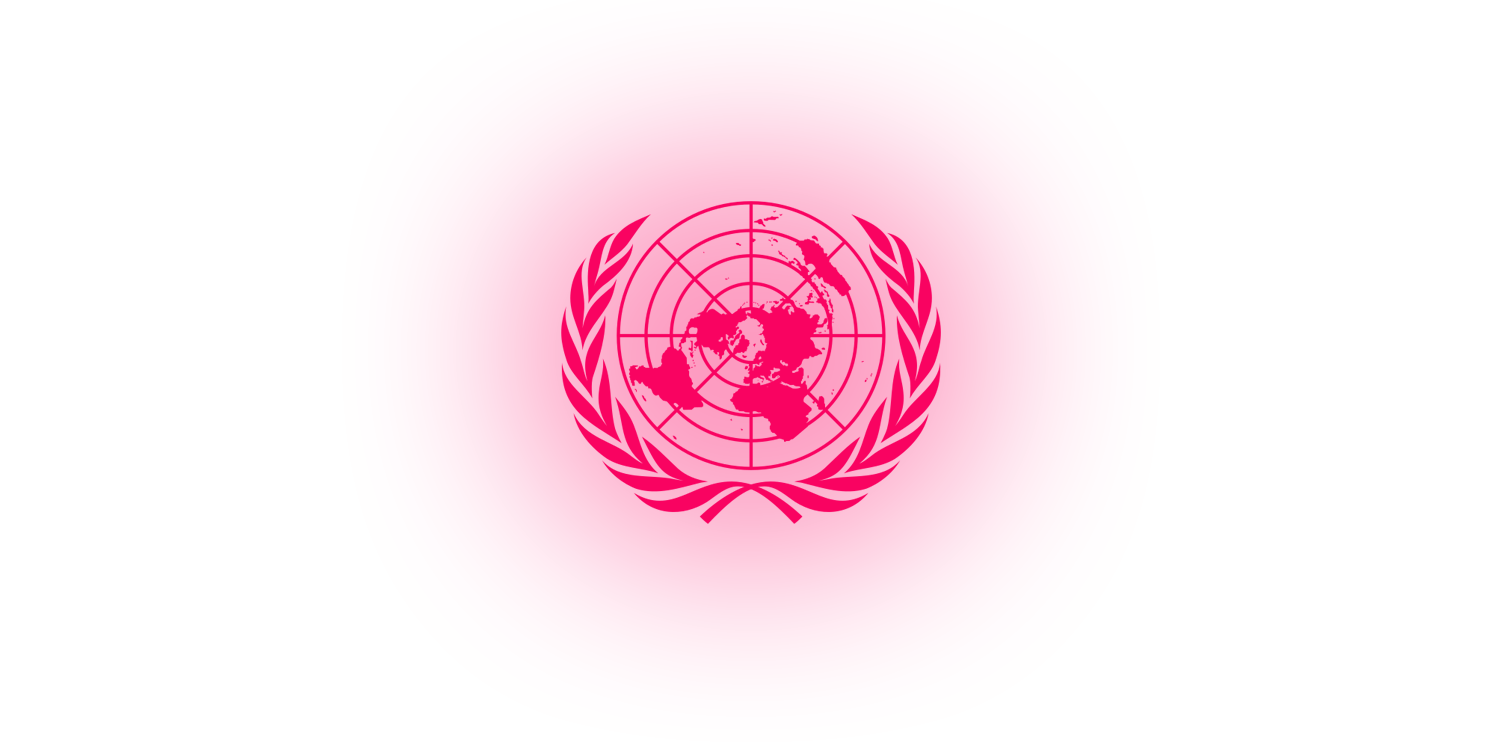
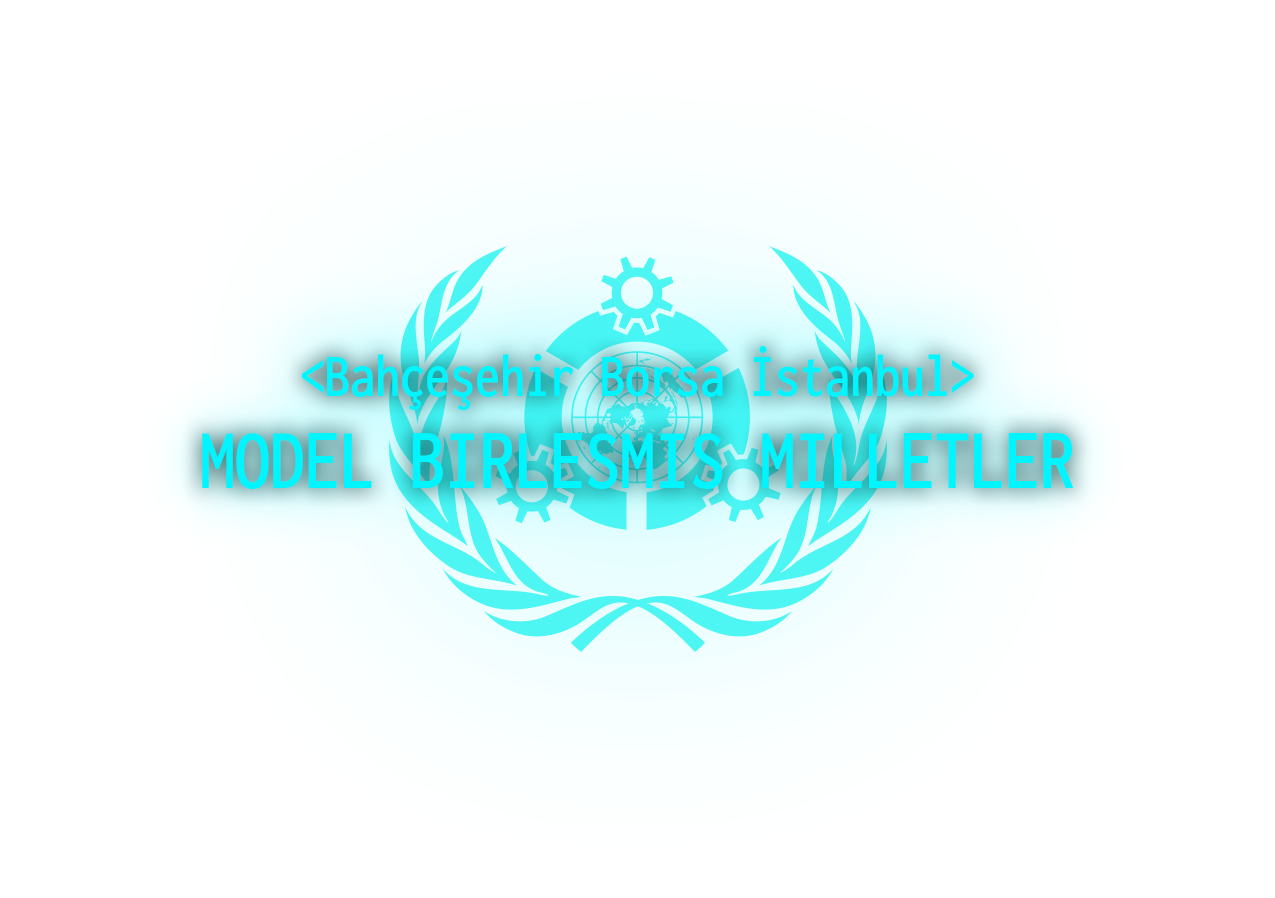
Add files via upload

Changed region(s): [[0.1224, 0.1237, 0.8565, 0.8347]]

diff --git a/pages/aboutus.html b/pages/aboutus.html
@@ -49,11 +49,11 @@
     
     <!-- Başlık Bölümü -->
     <header>
-        <div id="bistmbm_bg">
-            <h1 id="bistmbm_bg_text1">&lt;Bahçeşehir Borsa İstanbul&gt;</h1>
-            <img src="../img/unitednationsbg.png">
-            <h1 id="bistmbm_bg_text2">MODEL BIRLESMIS MILLETLER</h1>
-        </div>
+        <header>
+            <div id="bistmbm_bg">
+                <img src="../img/unitednationsbg.png">
+            </div>
+        </header>
     </header>
     
     <!-- Footer Kısmı -->

diff --git a/pages/contact.html b/pages/contact.html
@@ -31,11 +31,11 @@
         </div>
     </nav>
     <header>
-        <div id="logo_2">
-            <h1 id="h1_1">&lt;Bahçeşehir Borsa İstanbul&gt;</h1>
-            <img src="../img/United_Nations-logo-47BC42E72F-seeklogo 1.png">
-            <h1 id="h1_2">MODEL BIRLESMIS MILLETLER</h1>
-        </div>
+        <header>
+            <div id="bistmbm_bg">
+                <img src="../img/unitednationsbg.png">
+            </div>
+        </header>
     </header>
     <footer>
         <p>BISTMBM</p>

diff --git a/pages/docs.html b/pages/docs.html
@@ -31,11 +31,11 @@
         </div>
     </nav>
     <header>
-        <div id="logo_2">
-            <h1 id="h1_1">&lt;Bahçeşehir Borsa İstanbul&gt;</h1>
-            <img src="../img/United_Nations-logo-47BC42E72F-seeklogo 1.png">
-            <h1 id="h1_2">MODEL BIRLESMIS MILLETLER</h1>
-        </div>
+        <header>
+            <div id="bistmbm_bg">
+                <img src="../img/unitednationsbg.png">
+            </div>
+        </header>
     </header>
     <footer>
         <p>BISTMBM</p>

diff --git a/pages/fqa.html b/pages/fqa.html
@@ -31,11 +31,11 @@
         </div>
     </nav>
     <header>
-        <div id="logo_2">
-            <h1 id="h1_1">&lt;Bahçeşehir Borsa İstanbul&gt;</h1>
-            <img src="../img/United_Nations-logo-47BC42E72F-seeklogo 1.png">
-            <h1 id="h1_2">MODEL BIRLESMIS MILLETLER</h1>
-        </div>
+        <header>
+            <div id="bistmbm_bg">
+                <img src="../img/unitednationsbg.png">
+            </div>
+        </header>
     </header>
     <footer>
         <p>BISTMBM</p>

diff --git a/index.html b/index.html
@@ -50,9 +50,7 @@
     <!-- Başlık Bölümü -->
     <header>
         <div id="bistmbm_bg">
-            <h1 id="bistmbm_bg_text1">&lt;Bahçeşehir Borsa İstanbul&gt;</h1>
             <img src="img/unitednationsbg.png">
-            <h1 id="bistmbm_bg_text2">MODEL BIRLESMIS MILLETLER</h1>
         </div>
     </header>
 
